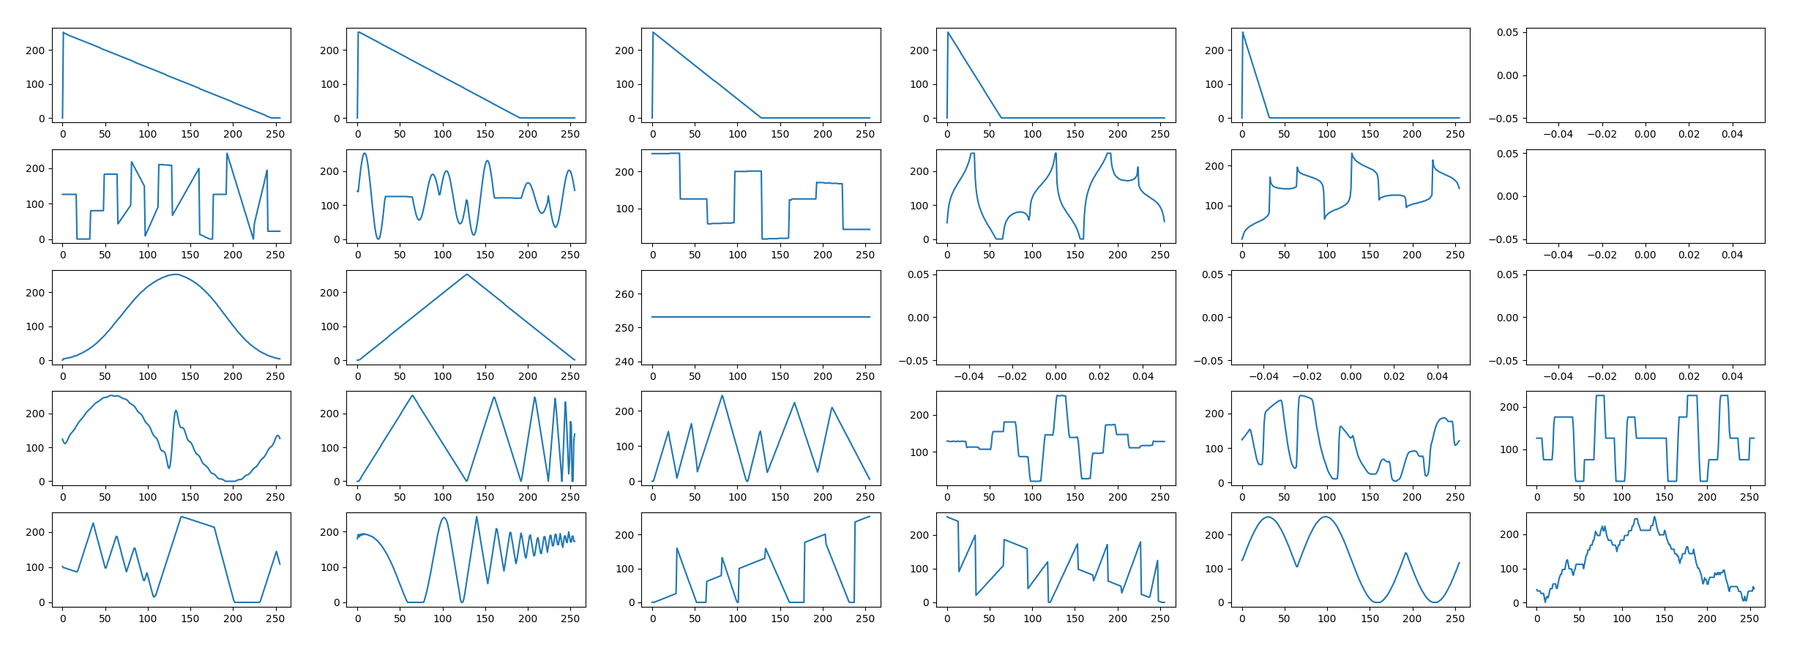
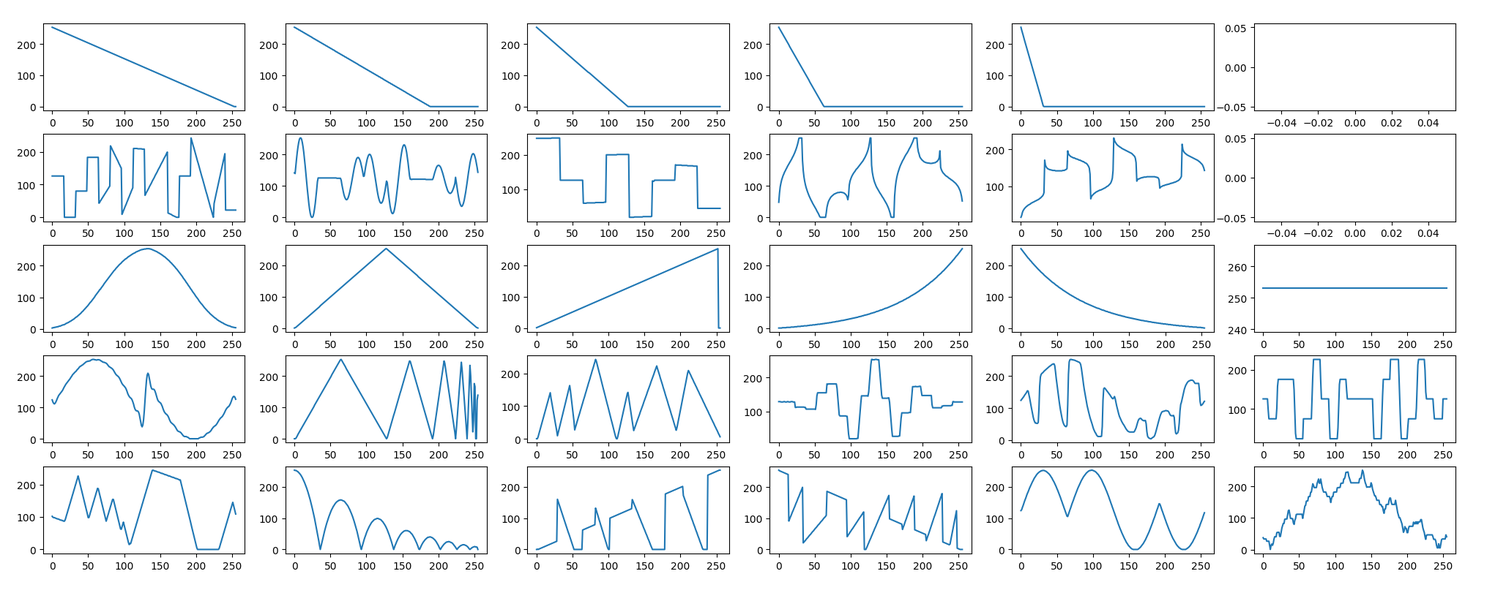
Tweaked LFO shapes and banks colors

diff --git a/src/lfo_wavetable_bank.c b/src/lfo_wavetable_bank.c
@@ -1,5 +1,5 @@
 // This file generated with wavecalc
-// Authors: Hugo Paris, hugoplho@gmail.com, Dan Green danngreen1@gmail.com 
+// Authors: Hugo Paris, hugoplho@gmail.com, Dan Green danngreen1@gmail.com
 //
 // Wavetable name: 2018_08_05_HP_BetaTest_LFO_BANKS
 // Wavetable by: Hugo Paris hugoplho@gmail.com
@@ -7,67 +7,81 @@
 #include "arm_math.h" 
 #include "lfo_wavetable_bank.h"
 
-uint8_t LFOS_TO_BANK_END[NUM_LFO_GROUPS] = {5, 10, 12, 13, 19, 25}; 
+uint8_t LFOS_TO_BANK_END[NUM_LFO_GROUPS] = {5, 10, 16, 22, 28};
 
-const uint8_t lfo_wavetable[NUM_LFO_SHAPES][LFO_TABLELEN] = 
-{	
-	// RAMP(s) full, 3/4, 1/2,/ 18	
+const uint8_t lfo_wavetable[NUM_LFO_SHAPES][LFO_TABLELEN] =
+{
+	// RAMP(s) descending - full, 3/4, 1/2, 1/8
 
-		{0,253,250,249,248,247,245,244,243,242,241,240,239,238,237,236,235,234,233,232,231,230,229,228,227,226,225,224,223,222,221,220,219,218,217,216,215,214,213,212,211,210,209,208,207,205,204,203,202,201,200,199,198,197,196,195,194,193,192,191,190,189,188,187,186,185,184,183,182,181,180,179,178,177,176,175,174,173,172,171,170,169,168,167,165,164,163,162,161,160,159,158,157,156,155,154,153,152,151,150,149,148,147,146,145,144,143,142,141,140,139,138,137,136,135,134,133,132,131,130,129,128,126,125,124,123,122,121,120,119,118,117,116,115,114,113,112,111,110,109,108,107,106,105,104,103,102,101,100,99,98,97,96,95,94,93,92,91,90,89,88,86,85,84,83,82,81,80,79,78,77,76,75,74,73,72,71,70,69,68,67,66,65,64,63,62,61,60,59,58,57,56,55,54,53,52,51,50,49,48,46,45,44,43,42,41,40,39,38,37,36,35,34,33,32,31,30,29,28,27,26,25,24,23,22,21,20,19,18,17,16,15,14,13,12,11,10,9,8,6,5,4,3,2,1,0,0,0,0,0,0,0,0,0,0,0},
-		{0,253,253,252,251,249,248,247,245,244,243,241,240,239,237,236,235,233,232,231,229,228,227,225,224,223,221,220,218,217,216,214,213,212,210,209,208,206,205,204,202,201,200,198,197,196,194,193,192,190,189,188,186,185,184,182,181,180,178,177,175,174,173,171,170,169,167,166,165,163,162,161,159,158,157,155,154,153,151,150,149,147,146,145,143,142,141,139,138,137,135,134,132,131,130,128,127,126,124,123,122,120,119,118,116,115,114,112,111,110,108,107,106,104,103,102,100,99,98,96,95,94,92,91,90,88,87,85,84,83,81,80,79,77,76,75,73,72,71,69,68,67,65,64,63,61,60,59,57,56,55,53,52,51,49,48,47,45,44,42,41,40,38,37,36,34,33,32,30,29,28,26,25,24,22,21,20,18,17,16,14,13,12,10,9,8,6,5,4,2,1,0,0,0,0,0,0,0,0,0,0,0,0,0,0,0,0,0,0,0,0,0,0,0,0,0,0,0,0,0,0,0,0,0,0,0,0,0,0,0,0,0,0,0,0,0,0,0,0,0,0,0,0,0,0,0,0,0,0,0,0,0,0,0,0,0},
-		{0,253,251,249,247,245,243,241,239,237,235,233,231,229,227,225,223,221,219,217,215,213,211,209,207,205,203,201,199,197,195,193,191,189,187,185,183,181,179,177,175,173,171,169,167,165,163,161,159,157,155,153,151,149,147,145,143,141,139,137,135,133,131,129,127,125,123,121,119,117,115,113,111,109,108,106,104,102,100,98,96,94,92,90,88,86,84,82,80,78,76,74,72,70,68,66,64,62,60,58,56,54,52,50,48,46,44,42,40,38,36,34,32,30,28,26,24,22,20,18,16,14,12,10,8,6,4,2,0,0,0,0,0,0,0,0,0,0,0,0,0,0,0,0,0,0,0,0,0,0,0,0,0,0,0,0,0,0,0,0,0,0,0,0,0,0,0,0,0,0,0,0,0,0,0,0,0,0,0,0,0,0,0,0,0,0,0,0,0,0,0,0,0,0,0,0,0,0,0,0,0,0,0,0,0,0,0,0,0,0,0,0,0,0,0,0,0,0,0,0,0,0,0,0,0,0,0,0,0,0,0,0,0,0,0,0,0,0,0,0,0,0,0,0,0,0,0,0,0,0,0,0,0,0,0,0},
-		{0,253,249,245,241,237,233,229,225,221,217,213,209,205,201,197,192,188,184,180,176,172,168,164,160,156,152,148,144,140,136,132,128,124,120,116,112,108,104,100,96,92,88,84,79,75,71,67,63,59,55,51,47,43,39,35,31,27,23,19,15,11,7,3,0,0,0,0,0,0,0,0,0,0,0,0,0,0,0,0,0,0,0,0,0,0,0,0,0,0,0,0,0,0,0,0,0,0,0,0,0,0,0,0,0,0,0,0,0,0,0,0,0,0,0,0,0,0,0,0,0,0,0,0,0,0,0,0,0,0,0,0,0,0,0,0,0,0,0,0,0,0,0,0,0,0,0,0,0,0,0,0,0,0,0,0,0,0,0,0,0,0,0,0,0,0,0,0,0,0,0,0,0,0,0,0,0,0,0,0,0,0,0,0,0,0,0,0,0,0,0,0,0,0,0,0,0,0,0,0,0,0,0,0,0,0,0,0,0,0,0,0,0,0,0,0,0,0,0,0,0,0,0,0,0,0,0,0,0,0,0,0,0,0,0,0,0,0,0,0,0,0,0,0,0,0,0,0,0,0,0,0,0,0,0,0},
-		{0,253,244,236,228,219,211,203,195,187,179,171,163,155,147,139,131,123,115,107,99,91,83,75,67,59,51,43,35,27,18,10,2,0,0,0,0,0,0,0,0,0,0,0,0,0,0,0,0,0,0,0,0,0,0,0,0,0,0,0,0,0,0,0,0,0,0,0,0,0,0,0,0,0,0,0,0,0,0,0,0,0,0,0,0,0,0,0,0,0,0,0,0,0,0,0,0,0,0,0,0,0,0,0,0,0,0,0,0,0,0,0,0,0,0,0,0,0,0,0,0,0,0,0,0,0,0,0,0,0,0,0,0,0,0,0,0,0,0,0,0,0,0,0,0,0,0,0,0,0,0,0,0,0,0,0,0,0,0,0,0,0,0,0,0,0,0,0,0,0,0,0,0,0,0,0,0,0,0,0,0,0,0,0,0,0,0,0,0,0,0,0,0,0,0,0,0,0,0,0,0,0,0,0,0,0,0,0,0,0,0,0,0,0,0,0,0,0,0,0,0,0,0,0,0,0,0,0,0,0,0,0,0,0,0,0,0,0,0,0,0,0,0,0,0,0,0,0,0,0,0,0,0,0,0,0},
-	
+		{253,252,251,250,249,248,247,246,245,244,243,242,241,240,239,238,237,236,235,234,233,232,231,230,229,228,227,226,225,224,223,222,221,220,219,218,217,216,215,214,213,212,211,210,209,208,207,206,205,204,203,202,201,200,199,198,197,196,195,194,193,192,191,190,189,188,187,186,185,184,183,182,181,180,179,178,177,176,175,174,173,172,171,170,169,168,167,166,165,164,163,162,161,160,159,158,157,156,155,154,153,152,151,150,149,148,147,146,145,144,143,142,141,140,139,138,137,136,135,134,133,132,131,130,129,128,127,126,125,124,123,122,121,120,119,118,117,116,115,114,113,112,111,110,109,108,107,106,105,104,103,102,101,100,99,98,97,96,95,94,93,92,91,90,89,88,87,86,85,84,83,82,81,80,79,78,77,76,75,74,73,72,71,70,69,68,67,66,65,64,63,62,61,60,59,58,57,56,55,54,53,52,51,50,49,48,47,46,45,44,43,42,41,40,39,38,37,36,35,34,33,32,31,30,29,28,27,26,25,24,23,22,21,20,19,18,17,16,15,14,13,12,11,10,9,8,7,6,5,4,3,2,1,0,0,0},
+
+		{253,253,252,251,249,248,247,245,244,243,241,240,239,237,236,235,233,232,231,229,228,227,225,224,223,221,220,218,217,216,214,213,212,210,209,208,206,205,204,202,201,200,198,197,196,194,193,192,190,189,188,186,185,184,182,181,180,178,177,175,174,173,171,170,169,167,166,165,163,162,161,159,158,157,155,154,153,151,150,149,147,146,145,143,142,141,139,138,137,135,134,132,131,130,128,127,126,124,123,122,120,119,118,116,115,114,112,111,110,108,107,106,104,103,102,100,99,98,96,95,94,92,91,90,88,87,85,84,83,81,80,79,77,76,75,73,72,71,69,68,67,65,64,63,61,60,59,57,56,55,53,52,51,49,48,47,45,44,42,41,40,38,37,36,34,33,32,30,29,28,26,25,24,22,21,20,18,17,16,14,13,12,10,9,8,6,5,4,2,1,0,0,0,0,0,0,0,0,0,0,0,0,0,0,0,0,0,0,0,0,0,0,0,0,0,0,0,0,0,0,0,0,0,0,0,0,0,0,0,0,0,0,0,0,0,0,0,0,0,0,0,0,0,0,0,0,0,0,0,0,0,0,0,0,0,0},
+
+		{253,251,249,247,245,243,241,239,237,235,233,231,229,227,225,223,221,219,217,215,213,211,209,207,205,203,201,199,197,195,193,191,189,187,185,183,181,179,177,175,173,171,169,167,165,163,161,159,157,155,153,151,149,147,145,143,141,139,137,135,133,131,129,127,125,123,121,119,117,115,113,111,109,108,106,104,102,100,98,96,94,92,90,88,86,84,82,80,78,76,74,72,70,68,66,64,62,60,58,56,54,52,50,48,46,44,42,40,38,36,34,32,30,28,26,24,22,20,18,16,14,12,10,8,6,4,2,0,0,0,0,0,0,0,0,0,0,0,0,0,0,0,0,0,0,0,0,0,0,0,0,0,0,0,0,0,0,0,0,0,0,0,0,0,0,0,0,0,0,0,0,0,0,0,0,0,0,0,0,0,0,0,0,0,0,0,0,0,0,0,0,0,0,0,0,0,0,0,0,0,0,0,0,0,0,0,0,0,0,0,0,0,0,0,0,0,0,0,0,0,0,0,0,0,0,0,0,0,0,0,0,0,0,0,0,0,0,0,0,0,0,0,0,0,0,0,0,0,0,0,0,0,0,0,0,0},
+
+		{253,249,245,241,237,233,229,225,221,217,213,209,205,201,197,192,188,184,180,176,172,168,164,160,156,152,148,144,140,136,132,128,124,120,116,112,108,104,100,96,92,88,84,79,75,71,67,63,59,55,51,47,43,39,35,31,27,23,19,15,11,7,3,0,0,0,0,0,0,0,0,0,0,0,0,0,0,0,0,0,0,0,0,0,0,0,0,0,0,0,0,0,0,0,0,0,0,0,0,0,0,0,0,0,0,0,0,0,0,0,0,0,0,0,0,0,0,0,0,0,0,0,0,0,0,0,0,0,0,0,0,0,0,0,0,0,0,0,0,0,0,0,0,0,0,0,0,0,0,0,0,0,0,0,0,0,0,0,0,0,0,0,0,0,0,0,0,0,0,0,0,0,0,0,0,0,0,0,0,0,0,0,0,0,0,0,0,0,0,0,0,0,0,0,0,0,0,0,0,0,0,0,0,0,0,0,0,0,0,0,0,0,0,0,0,0,0,0,0,0,0,0,0,0,0,0,0,0,0,0,0,0,0,0,0,0,0,0,0,0,0,0,0,0,0,0,0,0,0,0,0,0,0,0,0,0},
+
+		{253,244,236,228,219,211,203,195,187,179,171,163,155,147,139,131,123,115,107,99,91,83,75,67,59,51,43,35,27,18,10,2,0,0,0,0,0,0,0,0,0,0,0,0,0,0,0,0,0,0,0,0,0,0,0,0,0,0,0,0,0,0,0,0,0,0,0,0,0,0,0,0,0,0,0,0,0,0,0,0,0,0,0,0,0,0,0,0,0,0,0,0,0,0,0,0,0,0,0,0,0,0,0,0,0,0,0,0,0,0,0,0,0,0,0,0,0,0,0,0,0,0,0,0,0,0,0,0,0,0,0,0,0,0,0,0,0,0,0,0,0,0,0,0,0,0,0,0,0,0,0,0,0,0,0,0,0,0,0,0,0,0,0,0,0,0,0,0,0,0,0,0,0,0,0,0,0,0,0,0,0,0,0,0,0,0,0,0,0,0,0,0,0,0,0,0,0,0,0,0,0,0,0,0,0,0,0,0,0,0,0,0,0,0,0,0,0,0,0,0,0,0,0,0,0,0,0,0,0,0,0,0,0,0,0,0,0,0,0,0,0,0,0,0,0,0,0,0,0,0,0,0,0,0,0,0},
+
 	// Time-based shapes (1/8 - 1/16th)
 
                 {126,126,126,126,126,126,126,126,126,126,126,126,126,126,126,126,126,0,0,0,0,0,0,0,0,0,0,0,0,0,0,0,0,80,80,80,80,80,80,80,80,80,80,80,80,80,80,80,80,183,183,183,183,183,183,183,183,183,183,183,183,183,183,183,183,43,46,50,53,57,60,64,67,71,74,78,81,85,88,92,95,218,214,209,204,200,195,191,186,182,177,173,168,163,159,154,150,9,14,20,25,31,36,41,47,52,58,63,69,74,80,85,90,210,210,210,210,210,210,209,209,209,209,209,209,208,208,208,208,67,72,76,80,84,88,93,97,101,105,110,114,118,122,127,131,135,139,144,148,152,156,161,165,169,173,178,182,186,190,195,199,13,12,11,10,9,8,6,5,4,3,2,1,0,0,0,0,126,126,126,126,126,126,126,126,126,126,126,126,126,126,126,126,242,234,226,218,211,203,195,187,179,171,164,156,148,140,132,124,117,109,101,93,85,77,70,62,54,46,38,30,23,15,7,0,42,53,63,73,83,93,103,113,123,133,143,153,163,174,184,194,22,22,22,22,22,22,22,22,22,22,22,22,22,22,22},
-                
+
                 {141,139,163,186,207,224,238,248,252,252,248,238,224,207,186,163,138,113,89,66,45,27,13,4,0,0,3,13,27,44,65,88,113,125,125,125,125,125,125,125,125,125,125,125,125,125,125,125,125,125,125,125,125,125,125,125,125,125,125,124,124,124,124,124,124,118,104,92,81,71,64,59,56,56,59,64,72,81,92,104,117,130,143,155,166,175,183,188,190,190,187,182,175,165,155,143,130,131,146,160,172,183,191,197,200,200,197,191,183,172,159,145,130,115,100,86,73,62,54,48,45,45,48,53,62,73,85,100,115,111,90,70,52,36,24,16,12,12,16,24,37,52,70,90,111,132,154,173,191,206,218,226,230,230,226,218,206,190,173,153,132,121,121,120,121,121,121,121,121,121,121,121,121,121,121,121,121,121,121,121,121,121,121,120,120,120,120,120,120,120,120,120,120,125,134,142,149,156,161,164,165,165,163,160,155,148,141,133,124,115,107,99,92,85,81,78,76,76,78,81,86,92,99,107,127,111,95,80,66,54,45,39,35,35,39,45,54,66,79,94,110,127,143,158,172,183,192,199,202,202,199,192,183,171,158,143},
-                
+
                 {248,248,248,248,248,248,248,248,248,248,248,248,248,248,248,248,248,248,248,248,248,249,249,249,249,249,249,249,249,249,249,249,249,126,126,126,126,126,126,126,126,126,126,126,126,126,126,126,126,126,126,126,126,126,126,126,126,126,126,126,126,126,126,126,126,59,59,59,59,59,60,60,60,60,60,60,60,60,60,60,60,60,61,61,61,61,61,61,61,61,61,61,61,61,62,62,62,200,200,200,200,200,200,200,200,200,200,200,200,200,200,200,201,201,201,201,201,201,201,201,201,201,201,201,201,201,201,201,201,18,18,18,18,18,18,18,19,19,19,19,19,19,19,19,19,19,19,19,20,20,20,20,20,20,20,20,20,20,20,20,21,124,123,123,126,126,126,126,126,126,126,126,126,126,126,126,126,126,126,126,126,126,126,126,126,126,126,126,126,126,126,126,126,171,170,170,170,170,170,170,170,170,169,169,169,169,169,169,169,169,168,168,168,168,168,168,168,168,167,167,167,167,167,167,44,44,44,44,44,44,44,44,44,44,44,44,44,44,44,44,44,44,44,44,44,44,44,44,44,44,44,44,44,44,44,44},
-                
+
                 {48,77,97,109,119,126,133,138,144,148,153,157,162,166,170,174,178,182,186,191,195,200,205,211,217,224,232,241,252,253,253,253,253,181,149,129,115,104,95,88,81,75,69,64,59,54,50,45,41,37,33,29,25,20,16,12,7,2,0,0,0,0,0,0,0,0,14,32,42,50,55,59,63,66,68,70,72,74,75,76,77,78,79,79,79,80,80,80,79,79,78,77,75,73,70,65,56,70,103,115,122,128,133,137,141,144,147,151,154,156,159,162,165,168,171,174,177,180,184,188,192,197,202,208,215,224,237,253,253,166,144,131,121,113,107,101,96,92,88,84,80,76,73,69,65,62,58,54,50,46,42,37,32,26,19,11,1,0,0,0,0,67,96,114,127,137,145,152,159,165,170,175,180,184,188,193,197,201,204,208,212,217,221,225,230,235,240,246,253,253,253,253,253,223,209,202,193,189,186,183,181,179,177,176,175,174,174,173,173,173,172,172,172,172,173,173,174,174,175,177,178,181,184,191,212,159,152,147,143,140,138,135,133,131,130,128,126,124,123,121,119,118,116,114,112,110,108,105,102,99,95,90,85,77,67,52},
-                
+
                 {16,21,29,34,37,40,42,44,46,47,49,50,51,52,54,55,56,57,58,59,60,61,62,63,64,65,67,68,70,72,74,77,83,171,157,153,150,148,147,146,145,145,144,144,143,143,143,143,142,142,142,142,142,142,142,142,142,142,143,143,143,144,145,146,148,196,188,185,183,181,180,179,178,177,177,176,175,174,174,173,172,171,171,170,169,168,167,167,165,164,163,162,160,157,154,149,133,66,72,75,77,79,81,82,84,85,86,87,88,89,90,90,91,92,93,94,95,96,97,99,100,101,103,105,107,110,115,122,143,231,224,220,217,214,212,210,209,207,206,205,203,202,201,200,199,198,197,196,195,194,193,192,191,190,189,187,185,183,181,176,164,114,118,120,120,121,122,123,123,124,124,125,125,125,125,126,126,126,126,126,126,126,126,126,126,126,126,125,125,124,124,122,117,95,98,99,100,101,102,102,103,104,104,105,105,106,106,107,108,108,109,109,110,111,111,112,113,114,115,116,118,120,123,127,214,200,195,192,190,188,187,185,184,183,182,181,180,179,178,177,176,175,174,173,172,171,170,168,167,165,163,161,159,155,150,143},
 
-	
-	// STANDARD SHAPES 
-		// SINE 
-		{0,4,4,5,5,6,6,7,7,8,9,9,10,11,12,13,13,14,15,17,18,19,20,21,23,24,25,27,28,30,31,33,35,37,38,40,42,44,46,48,50,53,55,57,60,62,65,67,70,72,75,78,81,84,86,89,92,95,98,101,105,108,111,114,117,120,124,125,129,132,135,138,142,145,148,151,154,157,160,163,166,169,172,175,178,181,184,186,189,192,194,197,199,202,204,206,208,211,213,215,217,219,221,222,224,226,228,229,231,232,234,235,237,238,239,240,242,243,244,245,246,247,248,249,250,250,251,251,252,252,252,253,253,253,253,253,252,252,251,250,249,248,247,246,245,244,243,241,240,239,237,236,234,233,231,229,228,226,224,222,220,218,216,214,211,209,207,204,202,199,197,194,191,189,186,183,180,177,174,171,168,165,161,158,155,152,148,145,142,138,135,132,128,125,122,118,115,112,109,105,102,99,96,93,89,86,83,80,78,75,72,69,66,64,61,59,56,54,52,49,47,45,43,41,39,37,35,34,32,30,28,27,25,24,23,21,20,19,18,16,15,14,13,12,11,10,10,9,8,7,6,6,5,5,4,4},	
-		// TRIANGLE
-		{0,0,1,2,4,6,8,10,12,14,16,18,20,22,24,26,28,30,32,34,36,38,40,42,44,46,48,50,52,54,56,58,60,62,64,66,68,71,73,75,77,79,81,83,85,87,89,91,93,95,97,99,101,103,105,107,109,111,113,115,117,119,121,123,125,127,129,131,133,135,137,139,141,143,145,147,149,151,153,155,157,159,161,163,165,167,169,171,173,175,177,179,181,183,185,187,189,191,193,195,197,199,201,203,205,207,209,211,213,215,217,219,221,223,225,227,229,231,233,235,237,239,241,243,245,247,249,251,253,253,251,249,247,245,243,241,239,237,235,233,231,229,227,225,223,221,219,217,215,213,211,209,207,205,203,201,199,197,195,193,191,189,187,185,183,181,179,177,175,173,171,169,167,164,162,160,158,156,154,152,150,148,146,144,142,140,138,136,134,132,130,128,126,124,122,120,118,116,114,112,110,108,106,104,102,100,98,96,94,92,90,88,86,84,82,80,78,76,74,72,70,68,66,64,62,60,58,56,54,52,50,48,46,44,42,40,38,36,34,32,30,28,26,24,22,20,18,16,14,12,10,8,6,4,2,1},
+	// STANDARD SHAPES
+		// Sine
+		{3,4,4,5,5,6,6,7,7,8,9,9,10,11,12,13,13,14,15,17,18,19,20,21,23,24,25,27,28,30,31,33,35,37,38,40,42,44,46,48,50,53,55,57,60,62,65,67,70,72,75,78,81,84,86,89,92,95,98,101,105,108,111,114,117,120,124,125,129,132,135,138,142,145,148,151,154,157,160,163,166,169,172,175,178,181,184,186,189,192,194,197,199,202,204,206,208,211,213,215,217,219,221,222,224,226,228,229,231,232,234,235,237,238,239,240,242,243,244,245,246,247,248,249,250,250,251,251,252,252,252,253,253,253,253,253,252,252,251,250,249,248,247,246,245,244,243,241,240,239,237,236,234,233,231,229,228,226,224,222,220,218,216,214,211,209,207,204,202,199,197,194,191,189,186,183,180,177,174,171,168,165,161,158,155,152,148,145,142,138,135,132,128,125,122,118,115,112,109,105,102,99,96,93,89,86,83,80,78,75,72,69,66,64,61,59,56,54,52,49,47,45,43,41,39,37,35,34,32,30,28,27,25,24,23,21,20,19,18,16,15,14,13,12,11,10,10,9,8,7,6,6,5,5,4,4},	
+
+		// Triangle
+		{0,1,2,4,6,8,10,12,14,16,18,20,22,24,26,28,30,32,34,36,38,40,42,44,46,48,50,52,54,56,58,60,62,64,66,68,71,73,75,77,79,81,83,85,87,89,91,93,95,97,99,101,103,105,107,109,111,113,115,117,119,121,123,125,127,129,131,133,135,137,139,141,143,145,147,149,151,153,155,157,159,161,163,165,167,169,171,173,175,177,179,181,183,185,187,189,191,193,195,197,199,201,203,205,207,209,211,213,215,217,219,221,223,225,227,229,231,233,235,237,239,241,243,245,247,249,251,253,253,251,249,247,245,243,241,239,237,235,233,231,229,227,225,223,221,219,217,215,213,211,209,207,205,203,201,199,197,195,193,191,189,187,185,183,181,179,177,175,173,171,169,167,164,162,160,158,156,154,152,150,148,146,144,142,140,138,136,134,132,130,128,126,124,122,120,118,116,114,112,110,108,106,104,102,100,98,96,94,92,90,88,86,84,82,80,78,76,74,72,70,68,66,64,62,60,58,56,54,52,50,48,46,44,42,40,38,36,34,32,30,28,26,24,22,20,18,16,14,12,10,8,6,4,2,1,0},
+
+		// Ascending ramp
+		{1,2,3,4,5,6,7,8,9,10,11,12,13,14,15,16,17,18,19,20,21,22,23,24,25,26,27,28,29,30,31,32,33,34,35,36,37,38,39,40,41,42,43,44,45,46,47,48,49,50,51,52,53,54,55,56,57,58,59,60,61,62,63,64,65,66,67,68,69,70,71,72,73,74,75,76,77,78,79,80,81,82,83,84,85,86,87,88,89,90,91,92,93,94,95,96,97,98,99,100,101,102,103,104,105,106,107,108,109,110,111,112,113,114,115,116,117,118,119,120,121,122,123,124,125,126,127,128,129,130,131,132,133,134,135,136,137,138,139,140,141,142,143,144,145,146,147,148,149,150,151,152,153,154,155,156,157,158,159,160,161,162,163,164,165,166,167,168,169,170,171,172,173,174,175,176,177,178,179,180,181,182,183,184,185,186,187,188,189,190,191,192,193,194,195,196,197,198,199,200,201,202,203,204,205,206,207,208,209,210,211,212,213,214,215,216,217,218,219,220,221,222,223,224,225,226,227,228,229,230,231,232,233,234,235,236,237,238,239,240,241,242,243,244,245,246,247,248,249,250,251,252,253,0,0,0},
+                
+                // Exponential Ascending ramp
+                
+                {1,1,1,1,1,2,2,2,2,2,2,3,3,3,3,3,3,4,4,4,4,4,5,5,5,5,6,6,6,6,6,7,7,7,7,8,8,8,8,8,9,9,9,10,10,10,10,11,11,11,11,12,12,12,13,13,13,13,14,14,14,15,15,15,16,16,16,17,17,17,18,18,18,19,19,20,20,20,21,21,22,22,22,23,23,24,24,25,25,25,26,26,27,27,28,28,29,29,30,30,31,31,32,32,33,33,34,34,35,35,36,37,37,38,38,39,40,40,41,42,42,43,43,44,45,45,46,47,48,48,49,50,50,51,52,53,54,54,55,56,57,58,58,59,60,61,62,63,64,64,65,66,67,68,69,70,71,72,73,74,75,76,77,78,79,80,82,83,84,85,86,87,88,90,91,92,93,95,96,97,98,100,101,103,104,105,107,108,109,111,112,114,115,117,118,120,122,123,125,126,128,130,131,133,135,137,138,140,142,144,146,148,149,151,153,155,157,159,161,163,166,168,170,172,174,176,179,181,183,185,188,190,193,195,198,200,203,205,208,210,213,216,218,221,224,227,230,232,235,238,241,244,247,250,253},
+
+		// Exponential descending ramp
+                
+                {253,250,247,244,241,238,235,232,229,226,223,221,218,215,213,210,207,205,202,200,197,195,192,190,187,185,183,180,178,176,174,172,169,167,165,163,161,159,157,155,153,151,149,147,145,144,142,140,138,136,135,133,131,129,128,126,125,123,121,120,118,117,115,114,112,111,109,108,106,105,104,102,101,100,98,97,96,94,93,92,91,89,88,87,86,85,84,83,81,80,79,78,77,76,75,74,73,72,71,70,69,68,67,66,65,64,63,63,62,61,60,59,58,57,57,56,55,54,53,53,52,51,50,50,49,48,47,47,46,45,45,44,43,43,42,41,41,40,40,39,38,38,37,37,36,35,35,34,34,33,33,32,32,31,31,30,30,29,29,28,28,27,27,26,26,25,25,24,24,24,23,23,22,22,22,21,21,20,20,20,19,19,18,18,18,17,17,17,16,16,16,15,15,15,14,14,14,13,13,13,13,12,12,12,11,11,11,11,10,10,10,9,9,9,9,8,8,8,8,7,7,7,7,7,6,6,6,6,5,5,5,5,5,4,4,4,4,4,3,3,3,3,3,3,2,2,2,2,2,2,1,1,1,0,0},
 
                 // OFFSET
-                
+
                 {253,253,253,253,253,253,253,253,253,253,253,253,253,253,253,253,253,253,253,253,253,253,253,253,253,253,253,253,253,253,253,253,253,253,253,253,253,253,253,253,253,253,253,253,253,253,253,253,253,253,253,253,253,253,253,253,253,253,253,253,253,253,253,253,253,253,253,253,253,253,253,253,253,253,253,253,253,253,253,253,253,253,253,253,253,253,253,253,253,253,253,253,253,253,253,253,253,253,253,253,253,253,253,253,253,253,253,253,253,253,253,253,253,253,253,253,253,253,253,253,253,253,253,253,253,253,253,253,253,253,253,253,253,253,253,253,253,253,253,253,253,253,253,253,253,253,253,253,253,253,253,253,253,253,253,253,253,253,253,253,253,253,253,253,253,253,253,253,253,253,253,253,253,253,253,253,253,253,253,253,253,253,253,253,253,253,253,253,253,253,253,253,253,253,253,253,253,253,253,253,253,253,253,253,253,253,253,253,253,253,253,253,253,253,253,253,253,253,253,253,253,253,253,253,253,253,253,253,253,253,253,253,253,253,253,253,253,253,253,253,253,253,253,253,253,253,253,253,253,253,253,253,253,253,253,253},
-        
+
         // Custom - 1
-        
+
                 {124,117,113,111,113,117,122,128,133,138,141,144,147,150,153,157,162,166,170,174,177,180,183,186,189,192,196,199,203,206,208,211,213,215,218,221,223,226,229,231,232,234,235,237,239,241,243,245,246,247,247,248,248,249,251,252,253,253,253,252,252,251,251,252,252,252,251,250,248,247,245,244,244,243,242,241,239,236,233,230,229,227,226,224,222,219,215,211,207,204,202,200,198,195,191,186,181,176,173,170,168,165,162,157,151,144,139,135,132,130,128,124,118,111,102,95,91,89,89,88,85,78,66,53,42,38,44,61,89,123,157,185,203,209,205,193,180,168,161,158,158,158,156,151,144,136,128,122,119,117,115,113,108,103,96,90,85,82,79,78,75,72,67,61,56,52,50,48,46,44,41,38,34,30,26,24,23,22,21,19,16,13,10,8,7,7,7,6,5,4,2,0,0,0,0,0,0,0,0,0,0,0,0,0,2,3,4,5,5,5,6,7,10,12,15,17,18,19,20,22,24,27,31,34,37,39,41,42,45,48,52,56,60,63,66,68,70,73,77,81,86,91,95,98,101,102,105,109,114,120,127,132,135,135,132,126},
-                
+
                 {0,0,1,5,9,14,18,22,26,30,34,38,42,46,50,54,58,62,66,70,74,78,82,86,90,94,98,102,107,111,115,119,123,127,131,135,139,143,147,151,155,159,163,167,171,175,179,183,187,191,195,199,204,208,212,216,220,224,228,232,236,240,244,248,252,253,249,245,241,237,233,229,224,220,216,212,208,204,200,196,192,188,184,180,176,172,168,164,160,156,152,148,144,140,136,132,128,124,120,116,112,108,104,100,96,92,88,84,80,76,72,68,64,60,56,52,48,44,40,36,32,28,24,20,16,12,8,4,0,3,11,19,27,35,43,51,59,67,75,82,90,98,106,114,122,130,138,146,153,161,169,177,185,193,201,209,217,224,232,240,248,247,239,231,223,215,207,199,191,183,175,167,159,151,143,135,127,119,111,103,95,87,79,71,63,55,47,39,31,23,15,7,0,10,26,42,58,74,89,105,121,137,153,169,185,201,216,232,248,241,225,210,194,178,162,147,131,115,99,84,68,52,36,21,0,27,58,88,119,150,180,211,244,222,191,160,128,97,65,34,0,50,110,171,234,201,142,82,22,58,176,166,0,0,123,139},
-                
+
                 {0,0,5,13,21,29,37,45,53,61,69,77,85,93,101,109,117,125,133,141,125,113,100,87,75,62,49,37,24,9,18,28,37,46,55,64,73,82,91,100,109,118,127,136,145,154,163,148,129,110,91,72,53,27,35,42,50,57,65,72,79,87,94,102,109,117,124,131,139,146,154,161,169,176,183,191,198,206,213,220,228,235,243,238,229,220,212,203,195,186,177,169,160,151,143,134,125,117,108,100,91,82,74,65,56,48,39,30,22,13,5,0,0,8,18,28,38,48,58,67,77,87,97,107,117,127,137,142,127,113,98,83,68,53,39,25,31,37,43,50,56,62,68,74,81,87,93,99,105,112,118,124,130,136,143,149,155,161,167,174,180,186,192,198,205,211,217,223,215,208,201,194,186,179,172,165,157,150,143,135,128,121,114,106,99,92,85,77,70,63,56,48,41,34,26,33,44,55,67,78,89,100,112,123,134,145,157,168,179,191,202,209,205,200,196,191,186,182,177,172,168,163,159,154,149,145,140,135,131,126,122,117,112,108,103,98,94,89,85,80,75,71,66,61,57,52,48,43,38,34,29,25,20,15,11,6},
-                
+
                 {129,129,129,128,128,128,128,129,129,128,128,128,129,129,128,128,128,129,129,129,128,128,128,112,112,113,113,113,113,113,113,113,113,113,113,113,112,112,107,107,107,107,107,107,107,107,107,107,107,107,107,106,120,146,155,155,155,155,155,155,155,155,155,155,155,155,155,181,180,181,181,181,181,181,181,181,181,181,181,181,181,168,142,116,90,87,87,87,87,87,87,87,87,87,86,86,60,34,20,20,20,20,20,20,20,20,20,20,20,21,21,47,72,98,124,146,146,146,146,146,146,146,146,146,145,158,185,211,238,253,253,252,252,252,253,253,253,252,252,252,226,200,174,148,139,139,139,139,139,139,139,139,140,140,127,100,74,48,27,27,27,27,27,27,27,27,27,28,28,54,80,96,96,96,96,96,96,96,96,96,96,97,97,97,123,148,173,173,173,173,174,173,173,173,173,174,174,174,160,147,147,147,147,147,147,147,147,147,147,147,147,147,147,120,111,111,111,111,111,111,111,111,111,111,111,111,111,116,116,117,117,117,117,117,117,117,117,117,117,117,118,118,129,129,128,128,128,128,128,128,128,128,128,128,128,128},
-                
+
                 {124,127,130,133,136,140,143,146,150,154,153,143,132,119,107,95,83,72,63,57,53,53,52,52,55,98,168,197,205,208,210,212,215,217,219,221,223,225,227,229,231,232,234,236,237,238,238,232,214,193,175,158,140,123,107,93,81,69,59,52,47,44,42,42,47,111,205,244,251,252,252,251,251,250,250,249,248,247,246,245,244,243,241,236,224,208,191,173,158,145,131,119,107,97,88,79,70,63,56,49,41,34,29,24,21,16,13,11,11,11,11,11,12,42,124,160,163,161,158,155,152,149,146,143,140,136,133,130,129,132,136,129,118,107,98,89,80,73,68,63,58,54,50,47,43,39,35,32,29,27,26,25,25,25,25,25,25,25,28,33,38,46,54,61,65,67,68,67,64,62,61,60,61,61,51,26,12,8,6,5,4,4,6,8,9,11,15,22,30,39,47,56,64,72,79,84,88,89,90,90,91,92,92,91,91,89,85,80,77,76,76,76,77,71,42,22,19,21,23,31,54,91,111,118,128,139,149,158,165,171,175,179,182,184,185,186,187,187,187,186,184,180,177,177,177,177,177,177,156,120,108,109,111,114,118,121},
-                
+
                 {126,126,126,126,126,126,126,98,75,75,75,75,75,75,75,75,75,75,75,102,158,176,176,176,176,176,176,176,176,176,176,176,176,176,176,176,176,176,176,176,176,176,176,149,93,38,24,24,24,24,24,24,24,24,24,24,75,75,75,75,75,75,75,75,75,75,75,75,130,186,227,227,227,227,227,227,227,227,227,227,172,126,126,126,126,126,126,126,126,126,126,126,70,24,24,24,24,24,24,24,24,24,24,24,52,107,163,176,176,176,176,176,176,176,176,176,149,126,126,126,126,126,126,126,126,126,126,126,126,126,126,126,126,126,126,126,126,126,126,126,126,126,126,126,126,126,126,126,126,126,126,126,126,70,24,24,24,24,24,24,24,24,24,24,24,79,135,176,176,176,176,176,176,176,176,176,176,227,227,227,227,227,227,227,227,227,227,227,227,172,116,61,24,24,24,24,24,24,24,24,24,52,75,75,75,75,75,75,75,75,75,75,75,102,158,213,227,227,227,227,227,227,227,227,227,199,144,126,126,126,126,126,126,126,126,126,126,98,75,75,75,75,75,75,75,75,75,75,75,75,126,126,126,126,126,126},
-        
+
         // Custom - 2
-                
+
                 {102,99,98,98,97,96,95,94,94,93,92,91,90,90,89,88,87,87,91,98,106,113,121,128,136,143,151,158,166,173,181,188,196,203,211,218,226,217,207,198,189,180,171,162,153,144,135,126,117,108,98,98,105,113,120,128,135,143,150,158,165,173,180,188,187,178,169,160,151,141,132,123,114,105,96,87,94,102,109,117,124,132,139,147,154,154,145,135,126,117,108,99,90,81,72,63,62,69,77,84,75,66,57,48,39,30,21,15,18,18,25,33,40,48,55,63,70,78,85,93,100,108,115,123,130,138,145,153,160,168,175,183,190,198,205,213,220,228,235,243,244,243,242,241,241,240,239,238,238,237,236,235,234,234,233,232,231,230,230,229,228,227,226,226,225,224,223,222,222,221,220,219,218,218,217,216,215,214,214,205,196,186,177,168,159,150,141,132,123,114,105,96,87,77,68,59,50,41,32,23,14,5,0,0,0,0,0,0,0,0,0,0,0,0,0,0,0,0,0,0,0,0,0,0,0,0,0,0,0,0,0,0,3,10,18,25,33,40,48,55,63,70,78,85,93,100,108,115,123,130,138,145,136,127,118,109},
-                
-                {180,192,185,193,189,194,191,195,192,194,192,192,192,190,190,188,188,186,186,183,182,179,178,175,174,170,168,164,162,158,155,151,147,143,139,135,130,125,120,116,110,105,99,94,87,82,76,70,63,57,51,45,39,33,26,21,15,9,4,0,0,0,0,0,0,0,0,0,0,0,0,0,0,0,0,0,0,0,1,9,18,27,37,48,60,72,84,98,111,124,138,151,164,177,189,200,210,219,227,233,237,240,240,238,235,229,221,210,198,184,169,155,140,125,111,96,81,67,52,38,23,8,0,0,2,11,24,40,56,71,87,102,118,134,149,165,180,196,212,227,243,228,214,199,184,170,155,140,126,111,97,82,67,53,68,84,99,115,131,146,162,177,193,209,206,191,176,162,147,132,118,103,89,104,120,135,151,167,182,198,198,184,169,154,140,125,110,118,133,149,165,180,196,188,173,159,144,129,126,142,157,173,188,191,176,162,147,132,133,149,164,180,183,168,153,139,139,155,170,186,186,172,157,142,158,174,189,190,175,160,161,176,192,193,178,163,164,179,195,180,166,156,172,188,188,174,169,185,200,186,171,171,187,188,173,173},
+
+		{253,252,252,251,249,248,245,243,240,237,233,229,224,219,214,208,202,196,189,182,174,166,158,149,139,130,120,109,99,87,76,64,52,39,26,12,0,10,21,31,41,50,59,68,76,84,91,98,105,111,117,123,128,132,137,140,144,147,150,152,154,155,157,157,158,158,157,156,155,154,152,149,146,143,140,136,131,127,121,116,110,104,97,90,82,74,66,58,48,39,29,19,8,0,8,16,24,32,39,45,52,58,63,68,73,77,81,85,88,90,93,95,96,97,98,99,99,98,97,96,95,93,90,88,84,81,77,73,68,63,57,51,45,38,31,24,16,8,0,6,13,18,24,29,34,38,42,46,49,52,54,56,58,59,60,60,60,60,59,58,57,55,52,50,47,43,39,35,30,25,20,14,8,1,0,5,10,15,19,23,26,29,32,34,36,38,39,39,40,40,39,38,37,35,33,31,28,25,21,17,13,8,3,0,4,8,11,14,17,19,21,23,24,24,25,25,24,23,22,21,19,16,13,10,7,3,0,3,6,8,10,12,13,14,15,15,15,14,13,12,10,8,5,2,0,2,4,6,7,8,9,9,8,8,7,0},
                 
                 {0,1,0,1,2,3,4,5,6,7,8,9,10,11,12,13,14,15,16,17,18,19,20,21,22,23,24,25,26,160,153,146,139,132,125,118,111,104,97,90,83,76,69,62,55,49,42,35,28,21,14,7,0,0,0,0,0,0,0,0,0,0,0,0,62,63,64,65,66,67,68,69,70,71,72,73,74,75,76,77,78,79,132,125,117,110,102,94,87,79,72,64,57,49,41,34,26,19,11,4,0,0,100,101,102,103,104,105,106,107,108,109,110,111,112,113,114,115,116,117,118,119,120,121,122,123,124,125,126,127,128,129,130,159,154,148,142,137,131,125,120,114,108,102,97,91,85,80,74,68,63,57,51,46,40,34,29,23,17,11,6,0,0,0,0,0,0,0,0,0,0,0,0,0,0,0,0,0,0,177,178,179,180,181,182,183,184,185,186,187,188,189,190,191,192,193,194,195,196,197,198,199,200,201,172,166,159,153,147,140,134,128,121,115,109,102,96,90,83,77,71,64,58,52,45,39,33,26,20,14,7,1,0,0,0,0,0,0,237,238,239,240,241,242,243,244,245,246,247,248,249,250,251,252,253,253},
-                
-                {254,252,251,250,249,248,247,246,245,244,243,242,241,240,91,97,103,108,114,120,125,131,136,142,148,153,159,165,170,176,182,187,193,199,21,24,26,29,32,35,37,40,43,46,48,51,54,57,59,62,65,68,70,73,76,79,81,84,87,90,92,95,98,101,103,106,109,186,185,184,183,182,181,180,179,178,177,176,175,174,173,172,171,170,169,168,167,166,165,164,163,162,161,160,159,41,44,48,51,55,58,62,65,68,72,75,79,82,86,89,93,96,100,103,106,110,113,117,120,0,0,0,5,10,16,21,27,32,37,43,48,54,59,65,70,75,81,86,92,97,103,108,113,119,124,130,135,141,146,151,157,162,168,173,98,97,96,95,94,93,92,91,90,89,88,87,86,85,84,83,82,81,64,71,77,84,91,97,104,111,117,124,131,137,144,151,158,164,171,63,62,61,60,59,58,57,56,55,54,53,52,51,50,49,48,28,35,42,48,55,62,69,76,83,90,97,104,110,117,124,131,138,145,152,159,166,172,179,24,23,22,21,20,19,18,17,16,15,17,29,41,53,65,77,88,100,112,124,4,3,2,1,0,0,0,0},
-                
+		{254,252,251,250,249,248,247,246,245,244,243,242,241,240,91,97,103,108,114,120,125,131,136,142,148,153,159,165,170,176,182,187,193,199,21,24,26,29,32,35,37,40,43,46,48,51,54,57,59,62,65,68,70,73,76,79,81,84,87,90,92,95,98,101,103,106,109,186,185,184,183,182,181,180,179,178,177,176,175,174,173,172,171,170,169,168,167,166,165,164,163,162,161,160,159,41,44,48,51,55,58,62,65,68,72,75,79,82,86,89,93,96,100,103,106,110,113,117,120,0,0,0,5,10,16,21,27,32,37,43,48,54,59,65,70,75,81,86,92,97,103,108,113,119,124,130,135,141,146,151,157,162,168,173,98,97,96,95,94,93,92,91,90,89,88,87,86,85,84,83,82,81,64,71,77,84,91,97,104,111,117,124,131,137,144,151,158,164,171,63,62,61,60,59,58,57,56,55,54,53,52,51,50,49,48,28,35,42,48,55,62,69,76,83,90,97,104,110,117,124,131,138,145,152,159,166,172,179,24,23,22,21,20,19,18,17,16,15,17,29,41,53,65,77,88,100,112,124,4,3,2,1,0,0,0,0},
+
                 {124,127,134,140,147,154,160,166,173,179,184,190,196,201,206,211,216,220,225,229,232,236,239,242,244,246,248,249,251,251,252,252,252,251,250,249,247,245,243,241,238,235,231,228,223,219,215,210,205,200,194,189,183,177,171,165,158,152,145,139,132,126,119,113,106,105,112,119,126,132,139,146,152,158,165,171,177,183,189,195,200,205,210,215,220,224,228,232,235,238,241,244,246,248,250,251,252,252,253,253,252,251,250,249,247,245,242,240,237,233,230,226,222,217,212,207,202,197,191,186,180,174,168,161,155,148,142,135,129,122,116,109,103,96,90,83,77,71,65,60,54,49,44,39,34,30,25,21,18,14,11,9,6,4,2,1,0,0,0,0,0,0,0,1,3,5,7,10,13,16,19,23,27,31,36,41,46,51,56,62,68,74,80,86,93,99,105,112,119,126,132,139,146,145,139,132,125,119,112,106,99,93,86,80,74,68,62,57,51,46,41,36,32,28,24,20,16,13,10,8,5,4,2,1,0,0,0,0,0,0,2,3,5,7,9,12,15,19,22,26,31,35,40,45,50,55,61,67,72,79,85,91,97,104,111,117},
-                
+
                 {38,34,34,34,34,27,27,27,27,14,1,14,18,14,20,33,41,41,41,54,55,55,55,42,42,55,68,76,83,83,96,97,97,97,110,123,125,112,99,99,98,98,85,80,93,98,111,112,112,112,112,112,112,112,112,99,112,125,138,140,153,154,154,167,168,168,181,182,195,208,203,196,196,196,196,209,216,223,210,210,223,210,197,189,182,182,182,182,176,168,168,168,168,162,149,161,168,168,181,182,182,182,182,195,196,196,196,197,209,210,210,210,223,224,231,244,244,245,245,232,225,218,211,211,211,211,211,211,211,211,211,211,211,211,224,225,225,238,251,246,233,220,211,205,197,198,198,198,198,198,211,205,192,184,177,170,170,164,156,156,156,156,143,142,142,136,136,123,115,128,129,142,143,143,143,156,163,163,150,143,143,143,143,143,156,143,130,117,109,101,101,95,88,81,68,55,60,73,67,67,54,54,67,74,74,74,74,74,74,87,82,82,88,82,88,82,88,88,88,95,95,82,69,61,54,41,33,46,47,47,47,47,47,47,47,47,41,33,33,33,27,14,6,6,19,6,6,19,32,34,34,34,34,34,47,41}
-	
+
 };

diff --git a/src/led_cont.c b/src/led_cont.c
@@ -99,49 +99,47 @@ extern const enum colorCodes fx_colors[NUM_FX];
 extern const float 	exp_1voct_10_41V[4096];
 
 const uint16_t CH_COLOR_MAP[6][3] = {
-	{ 1		, 600	, 954	},
-	{ 1		, 12	, 954	},
-	{ 941  	, 366	, 954	},
-	{ 941 	, 35 	, 947	},
-	{ 954 	, 176	, 21 	},
-	{ 800 	, 1	 	, 50	}	
+	{ 1	, 600	, 954	},
+	{ 1	, 12	, 954	},
+	{ 941	, 366	, 954	},
+	{ 941	, 35 	, 947	},
+	{ 954	, 176	, 21 	},
+	{ 800	, 1 	, 50	}	
 };
 
-const uint16_t LFO_BANK_COLOR[25][3]= {
-	{ 1		, 600	, 954	},				// Shades of Blue
-	{ 1		, 318	, 947	},
-	{ 1		, 94 	, 950	},
-	{ 1		, 12	, 954	},
-	{ 1		, 1		, 379	},
+const uint16_t LFO_BANK_COLOR[28][3]= {
+	{ 1	, 600	, 954	},				// Shades of Blue
+	{ 1	, 318	, 947	},
+	{ 1	, 94	, 950	},
+	{ 1	, 12	, 954	},
+	{ 1	, 1	, 379	},
 					
-	{ 941  	, 366	, 954	},				// Shades of Pink
-	{ 935 	, 116	, 928	},
-	{ 941 	, 35 	, 947	},
-	{ 954 	, 1		, 282 	},
-	{ 904 	, 1	 	, 126	},
+	{ 941	, 366	, 954	},				// Shades of Pink
+	{ 935	, 116	, 928	},
+	{ 941	, 35	, 947	},
+	{ 954	, 1	, 282	},
+	{ 904	, 1	, 126	},
 	
-	{ 502	, 309 	, 43 	},				// Shades of Yellow/Orange
-	{ 947 	, 388	, 21	},
-	// { 949 	, 256	, 21 	},
-	// { 954 	, 176	, 21 	},
-	// { 954 	, 130	, 22	},
-	// { 954 	, 55	, 21	},
-
-	{ 100  	, 100	, 100	},				// Shade of white
+	{ 502	, 309	, 43	},				// Shades of Yellow/Orange
+	{ 947	, 388	, 21	},
+	{ 949	, 256	, 21	},
+	{ 954	, 176	, 21	},
+	{ 954	, 130	, 22	},
+	{ 954	, 55	, 21	},
 
 	{  588	, 928	, 199	},				// Shades of Green	
 	{  274	, 954	, 67	},
-	{  83	, 949	, 1		},
-	{  1	, 239	, 1		},
-	{  1	, 101	, 9		},
-	{  1	, 25	, 4		},
+	{  83	, 949	, 1	},
+	{  1	, 239	, 1	},
+	{  1	, 101	, 9	},
+	{  1	, 25	, 4	},
 
-	{ 941  	, 366	, 100	},				// Shades of Red
-	{ 935 	, 116	, 80	},
-	{ 941 	, 35 	, 60	},
-	{ 954 	, 1		, 40 	},
-	{ 904 	, 1	 	, 20	},
-	{ 800 	, 1	 	, 0	    }
+	{ 941	, 366	, 100	},				// Shades of Red
+	{ 935	, 116	, 80	},
+	{ 941	, 3	, 60	},
+	{ 954	, 1	, 40 	},
+	{ 904	, 1	, 20	},
+	{ 800	, 1	, 0     }
 };
 
 enum colorCodes key_sw_mode_colors[NUM_MUTE_NOTE_KEY_STATES];

diff --git a/inc/lfo_wavetable_bank.h b/inc/lfo_wavetable_bank.h
@@ -33,8 +33,8 @@
 #define 	LFO_TABLELEN 	256 			//Must be a power of 2
 #define 	F_LFO_TABLELEN 	256.0
 #define	 	F_MAX_LFO_TABLELEN				(float)(F_LFO_TABLELEN - 1.0)	
-#define 	NUM_LFO_SHAPES  25 
-#define 	NUM_LFO_GROUPS 	6 		
+#define 	NUM_LFO_SHAPES  28 
+#define 	NUM_LFO_GROUPS 	5 		
 #define 	MAX_LFO_WT_VAL 	256
 #define 	KEY_SHAPE		0
 	
